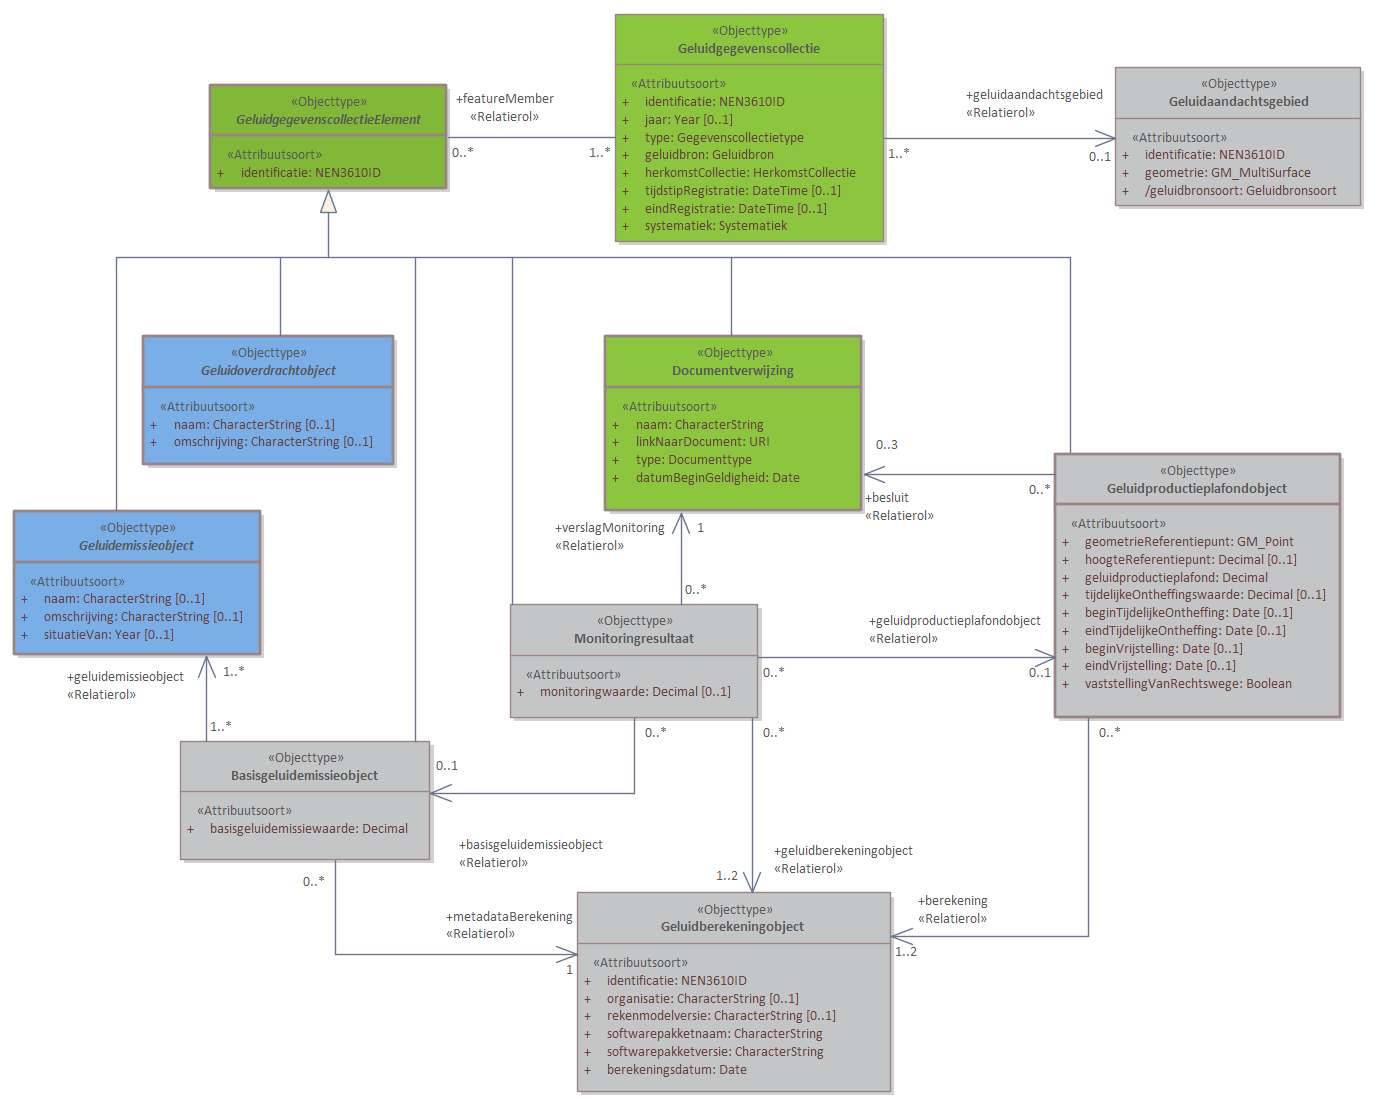
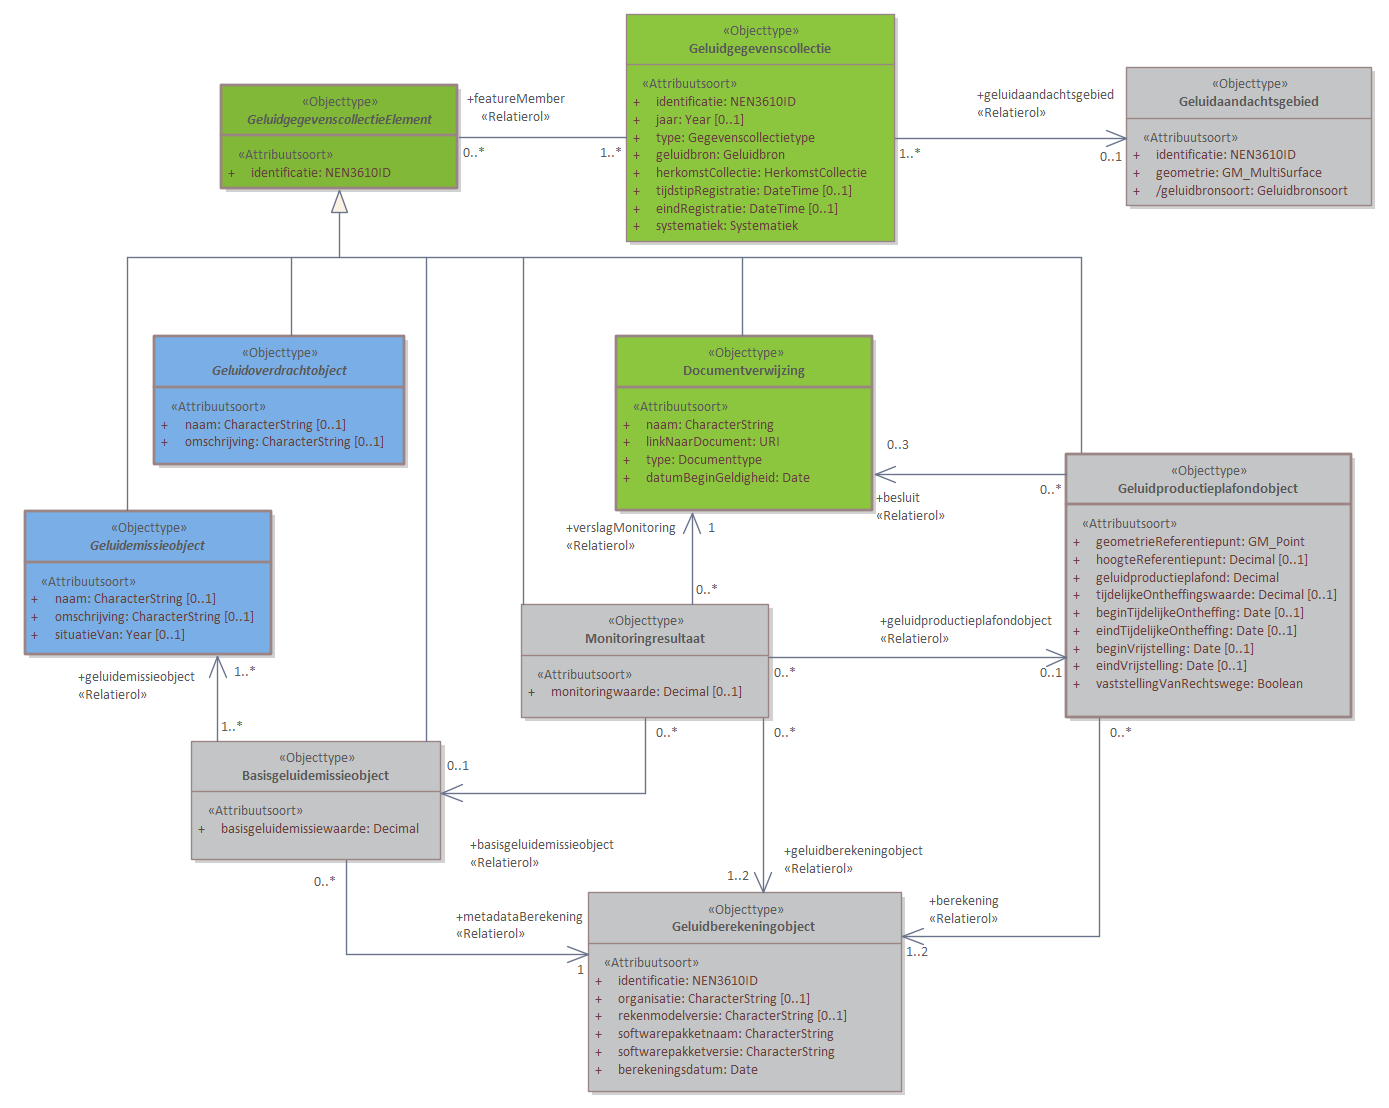
MIMLM-InformatiemodelGeluid-2.1-0-20221025-20221025-162429

diff --git a/data/IMG-cat.respec.html b/data/IMG-cat.respec.html
@@ -1,10 +1,10 @@
 
 <!DOCTYPE HTML><section id="cat" class="normative">
    <h2>Gegevensdefinitie</h2>
-   <!--MIMLM-InformatiemodelGeluid-2.1-0-20210521-20221007-152254 imvertor 1.67.1-->
+   <!--MIMLM-InformatiemodelGeluid-2.1-0-20221025-20221025-162429 imvertor 1.67.1-->
    <section id="EAID_66AE8FA2_74FC_4d4d_B2B2_249C8D6A651F">
       <h3>   Basismodel - overzicht</h3>
-      <div class="imageinfo overview"><img src="data/Images/EAID_66AE8FA2_74FC_4d4d_B2B2_249C8D6A651F.png" usemap="#imagemap-EAID_66AE8FA2_74FC_4d4d_B2B2_249C8D6A651F" alt="Diagram &#xA;                        Het Basismodel vormt de samenhang tussen alle domeinen van het IMGeluid. Alle objecttypen en relaties uit het IMGeluid komen samen in een Geluidgegevenscollectie.&#xA;Binnen het IMGeluid worden geluidbrongegevens die gebruikt worden voor GPP en BGE berekeningen, gemodelleerd als een Geluidemissie of Geluidoverdrachtobject. De resultaten van GPP of BGE berekeningen worden opgeslagen in een Geluidgegevenscollectie. De onderliggende juridische vastleggingen, vaststellingen, of monitoringsverslagen van deze omgevings- of monitoringswaarden, worden ook opgeslagen in dezelfde Geluidgegevenscollectie.&#xA;Per geluidbron per toepassing kan er een Geluidgegevenscollectie bestaan. Deze kan geassocieerd worden met maximaal 1 Geluidaandachtsgebied. Wanneer geluidgegevens met betrekking tot cumulatieberekeningen worden aangeleverd, bevat een Geluidgegevenscollectie geen Geluidaandachtsgebied.&#xA;Klik met de rechtermuisknop op het diagram om de afbeelding op volledige grootte in een nieuw tabblad te openen.&#xA;                     "><map name="imagemap-EAID_66AE8FA2_74FC_4d4d_B2B2_249C8D6A651F"><area shape="rect" alt="GeluidgegevenscollectieElement" coords="210,85,447,189" href="#graph_EAID_924BD078_D715_461a_B7E9_D7176A7406E0"><area shape="rect" alt="Monitoringresultaat" coords="510,604,758,718" href="#graph_EAID_BA00B77B_D408_4590_8185_CE59E5838F1E"><area shape="rect" alt="Basisgeluidemissieobject" coords="180,741,430,860" href="#graph_EAID_9AD15457_4880_42e5_8C72_4E5EFAC91B15"><area shape="rect" alt="Geluidproductieplafondobject" coords="1055,454,1341,718" href="#graph_EAID_237408F8_8CE9_4828_B8FB_1A5B8C917622"><area shape="rect" alt="Geluidberekeningobject" coords="577,892,891,1092" href="#graph_EAID_97ED59FE_9FCA_49a6_8F07_214E48000B76"><area shape="rect" alt="Documentverwijzing" coords="605,336,862,511" href="#graph_EAID_7E137496_1028_4af5_9367_569358A2167B"><area shape="rect" alt="Geluidaandachtsgebied" coords="1115,67,1361,206" href="#graph_EAID_B06128AC_518C_4e26_88E5_14ED5A050A19"><area shape="rect" alt="Geluidgegevenscollectie" coords="615,14,884,242" href="#graph_EAID_313C5AF9_49B8_4860_9E65_DE7C70084864"><area shape="rect" alt="Geluidemissieobject" coords="14,511,261,655" href="#graph_EAID_361C96BA_A638_494e_80BA_590ED481A81B"><area shape="rect" alt="Geluidoverdrachtobject" coords="143,336,394,465" href="#graph_EAID_2FEA326B_B7E7_48a4_B50F_00CCB2694677"></map><p><b>Basismodel - overzicht</b>
+      <div class="imageinfo overview"><img src="data/Images/EAID_66AE8FA2_74FC_4d4d_B2B2_249C8D6A651F.png" usemap="#imagemap-EAID_66AE8FA2_74FC_4d4d_B2B2_249C8D6A651F" alt="Diagram &#xA;                        Het Basismodel vormt de samenhang tussen alle domeinen van het IMGeluid. Alle objecttypen en relaties uit het IMGeluid komen samen in een Geluidgegevenscollectie.&#xA;Binnen het IMGeluid worden geluidbrongegevens die gebruikt worden voor GPP en BGE berekeningen, gemodelleerd als een Geluidemissie of Geluidoverdrachtobject. De resultaten van GPP of BGE berekeningen worden opgeslagen in een Geluidgegevenscollectie. De onderliggende juridische vastleggingen, vaststellingen, of monitoringsverslagen van deze omgevings- of monitoringswaarden, worden ook opgeslagen in dezelfde Geluidgegevenscollectie.&#xA;Per geluidbron per toepassing kan er een Geluidgegevenscollectie bestaan. Deze kan geassocieerd worden met maximaal 1 Geluidaandachtsgebied. Wanneer geluidgegevens met betrekking tot cumulatieberekeningen worden aangeleverd, bevat een Geluidgegevenscollectie geen Geluidaandachtsgebied.&#xA;Klik met de rechtermuisknop op het diagram om de afbeelding op volledige grootte in een nieuw tabblad te openen.&#xA;                     "><map name="imagemap-EAID_66AE8FA2_74FC_4d4d_B2B2_249C8D6A651F"><area shape="rect" alt="GeluidgegevenscollectieElement" coords="221,85,458,189" href="#graph_EAID_924BD078_D715_461a_B7E9_D7176A7406E0"><area shape="rect" alt="Monitoringresultaat" coords="521,604,769,718" href="#graph_EAID_BA00B77B_D408_4590_8185_CE59E5838F1E"><area shape="rect" alt="Basisgeluidemissieobject" coords="191,741,441,860" href="#graph_EAID_9AD15457_4880_42e5_8C72_4E5EFAC91B15"><area shape="rect" alt="Geluidproductieplafondobject" coords="1066,454,1352,718" href="#graph_EAID_237408F8_8CE9_4828_B8FB_1A5B8C917622"><area shape="rect" alt="Geluidberekeningobject" coords="588,892,902,1092" href="#graph_EAID_97ED59FE_9FCA_49a6_8F07_214E48000B76"><area shape="rect" alt="Documentverwijzing" coords="616,336,873,511" href="#graph_EAID_7E137496_1028_4af5_9367_569358A2167B"><area shape="rect" alt="Geluidaandachtsgebied" coords="1126,67,1372,206" href="#graph_EAID_B06128AC_518C_4e26_88E5_14ED5A050A19"><area shape="rect" alt="Geluidgegevenscollectie" coords="626,14,895,242" href="#graph_EAID_313C5AF9_49B8_4860_9E65_DE7C70084864"><area shape="rect" alt="Geluidemissieobject" coords="25,511,272,655" href="#graph_EAID_361C96BA_A638_494e_80BA_590ED481A81B"><area shape="rect" alt="Geluidoverdrachtobject" coords="154,336,405,465" href="#graph_EAID_2FEA326B_B7E7_48a4_B50F_00CCB2694677"></map><p><b>Basismodel - overzicht</b>
             
             <p>Het Basismodel vormt de samenhang tussen alle domeinen van het IMGeluid. Alle objecttypen
                en relaties uit het IMGeluid komen samen in een Geluidgegevenscollectie.
@@ -26127,7 +26127,7 @@
 </section>
 <section id="lis" class="normative">
    <h2>Inhoud van waardenlijsten</h2>
-   <!--MIMLM-InformatiemodelGeluid-2.1-0-20210521-20221007-152254 imvertor 1.67.1--><a class="anchor" id="graph_EAID_C9ACE184_6E2B_40c1_ACE0_A7C5EE554EF9"></a><a class="anchor" id="detail_class_IMGeluidAlgemeen_Schermtype"></a><section id="detail_class_IMGeluidAlgemeen_Schermtype">
+   <!--MIMLM-InformatiemodelGeluid-2.1-0-20221025-20221025-162429 imvertor 1.67.1--><a class="anchor" id="graph_EAID_C9ACE184_6E2B_40c1_ACE0_A7C5EE554EF9"></a><a class="anchor" id="detail_class_IMGeluidAlgemeen_Schermtype"></a><section id="detail_class_IMGeluidAlgemeen_Schermtype">
       <h3>Enumeratie details  Schermtype</h3>
       
       <table style="width: 100%;" class="list">
